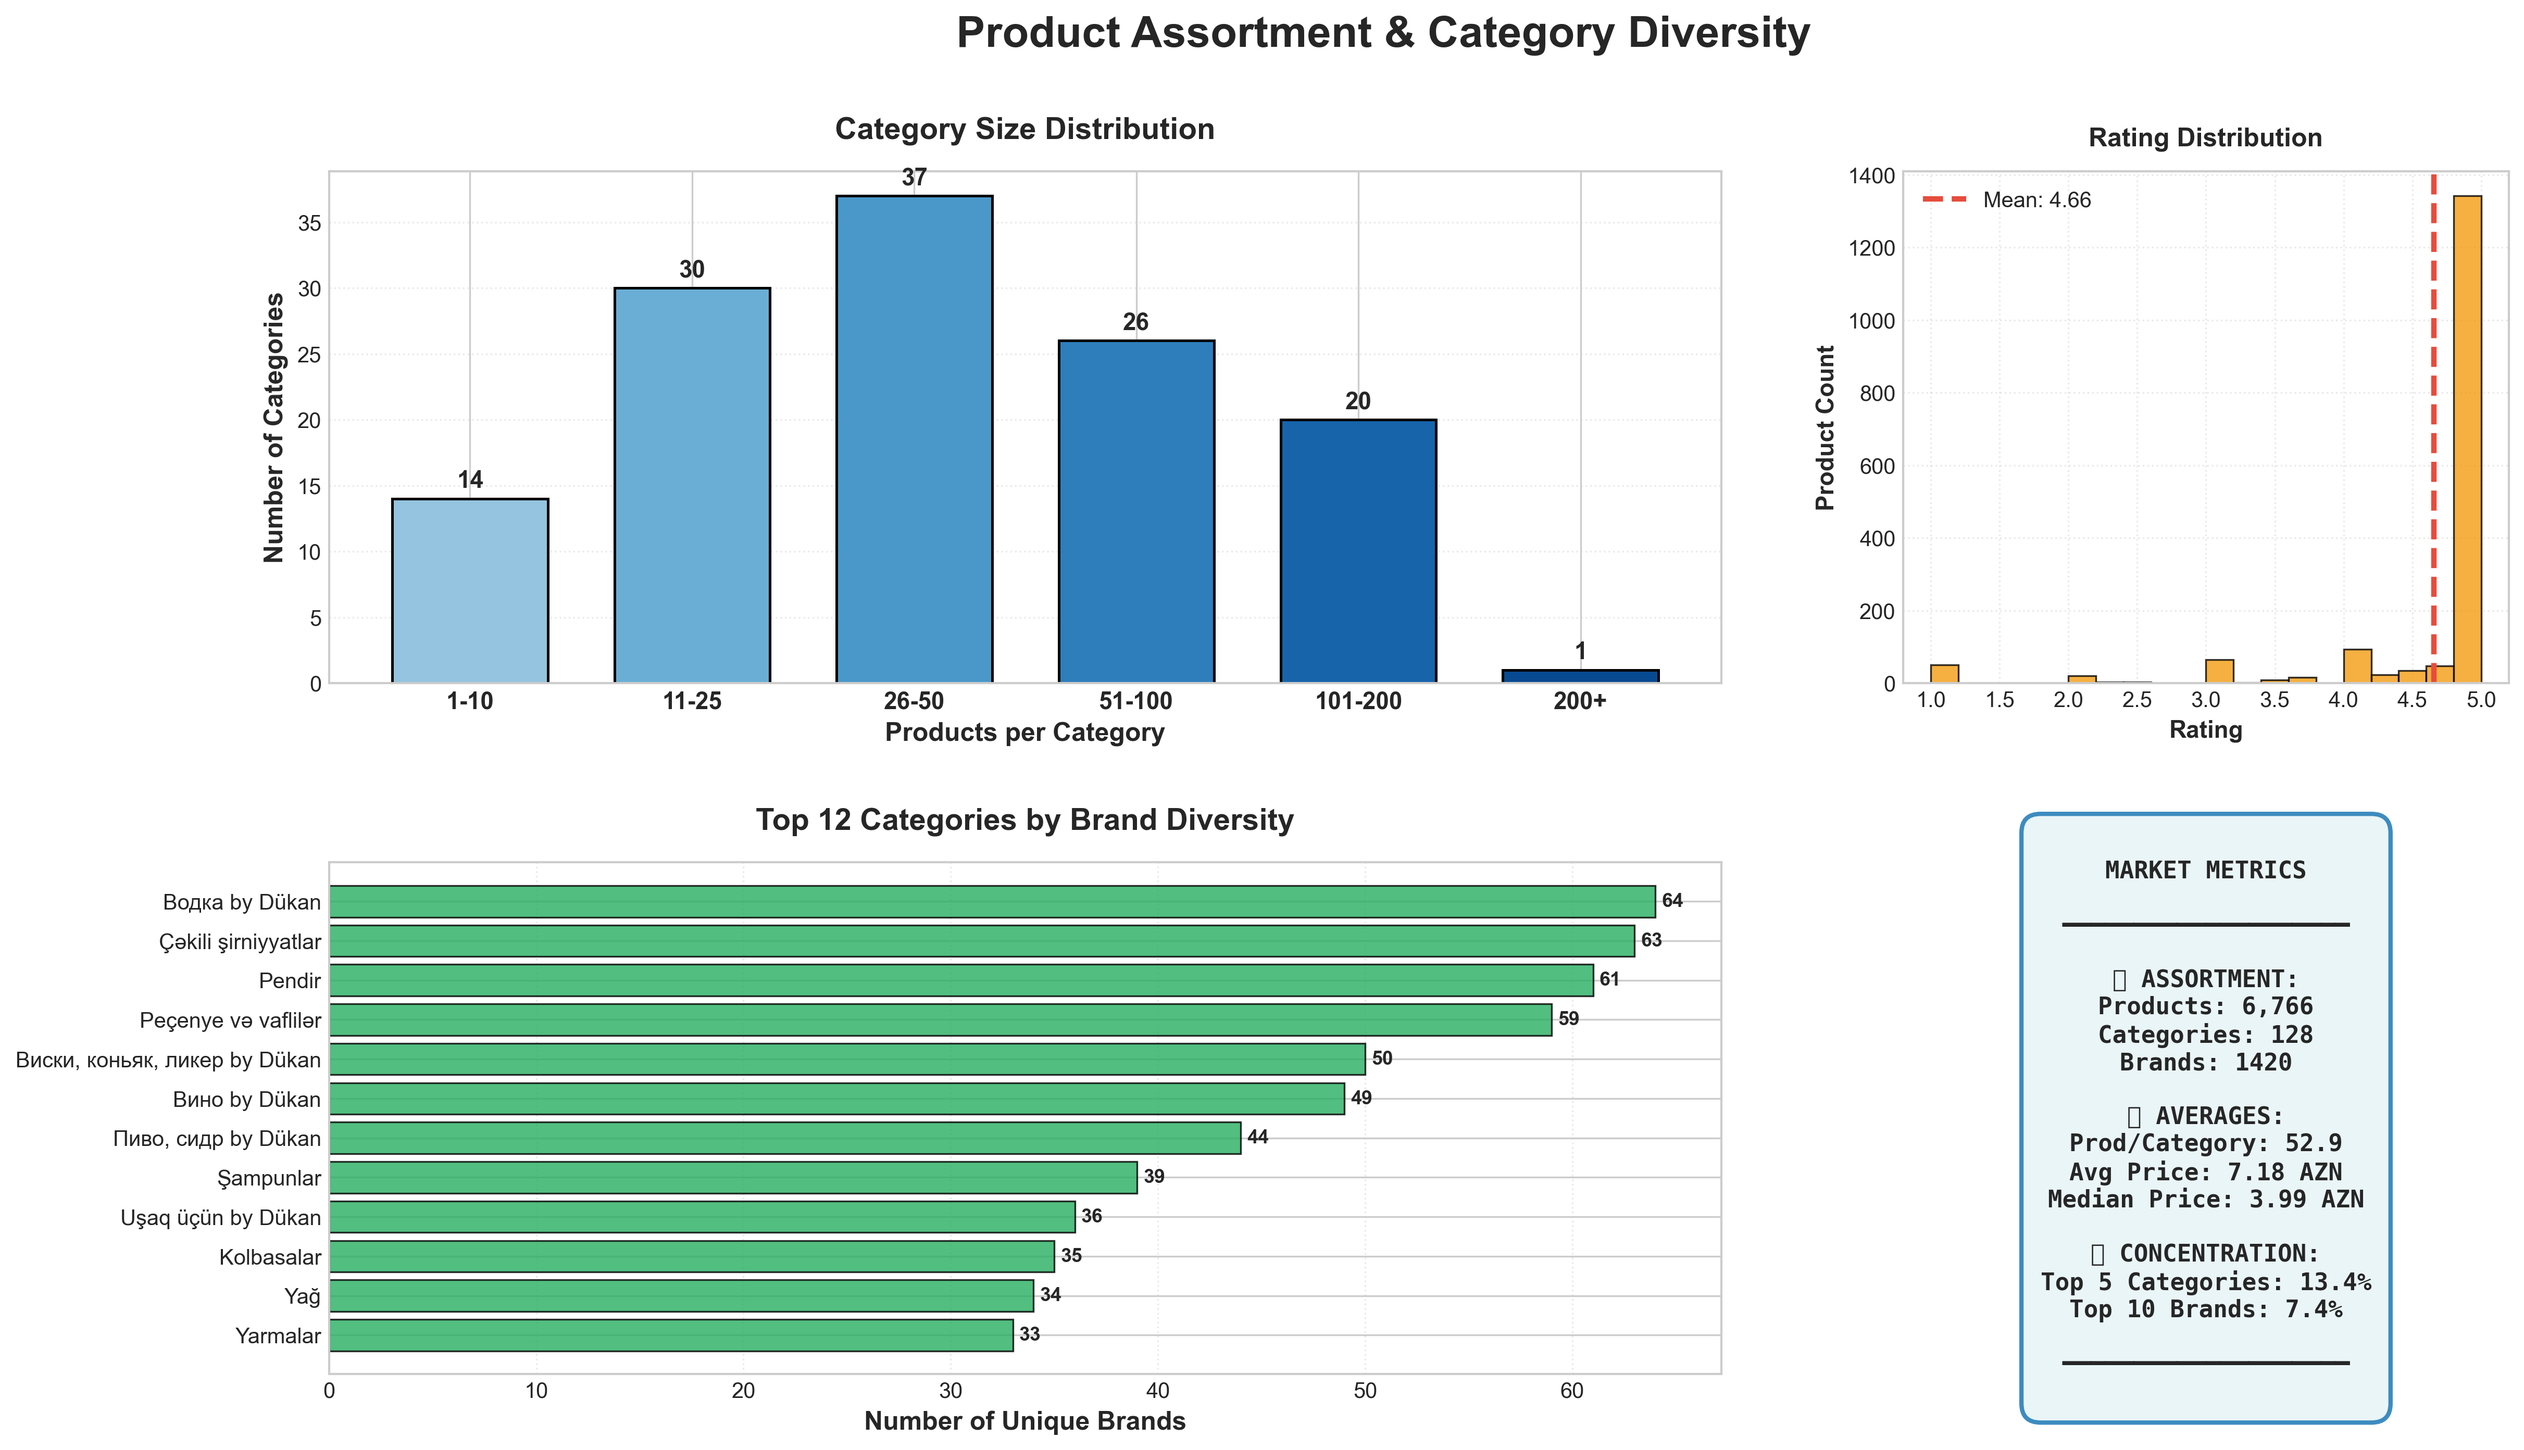
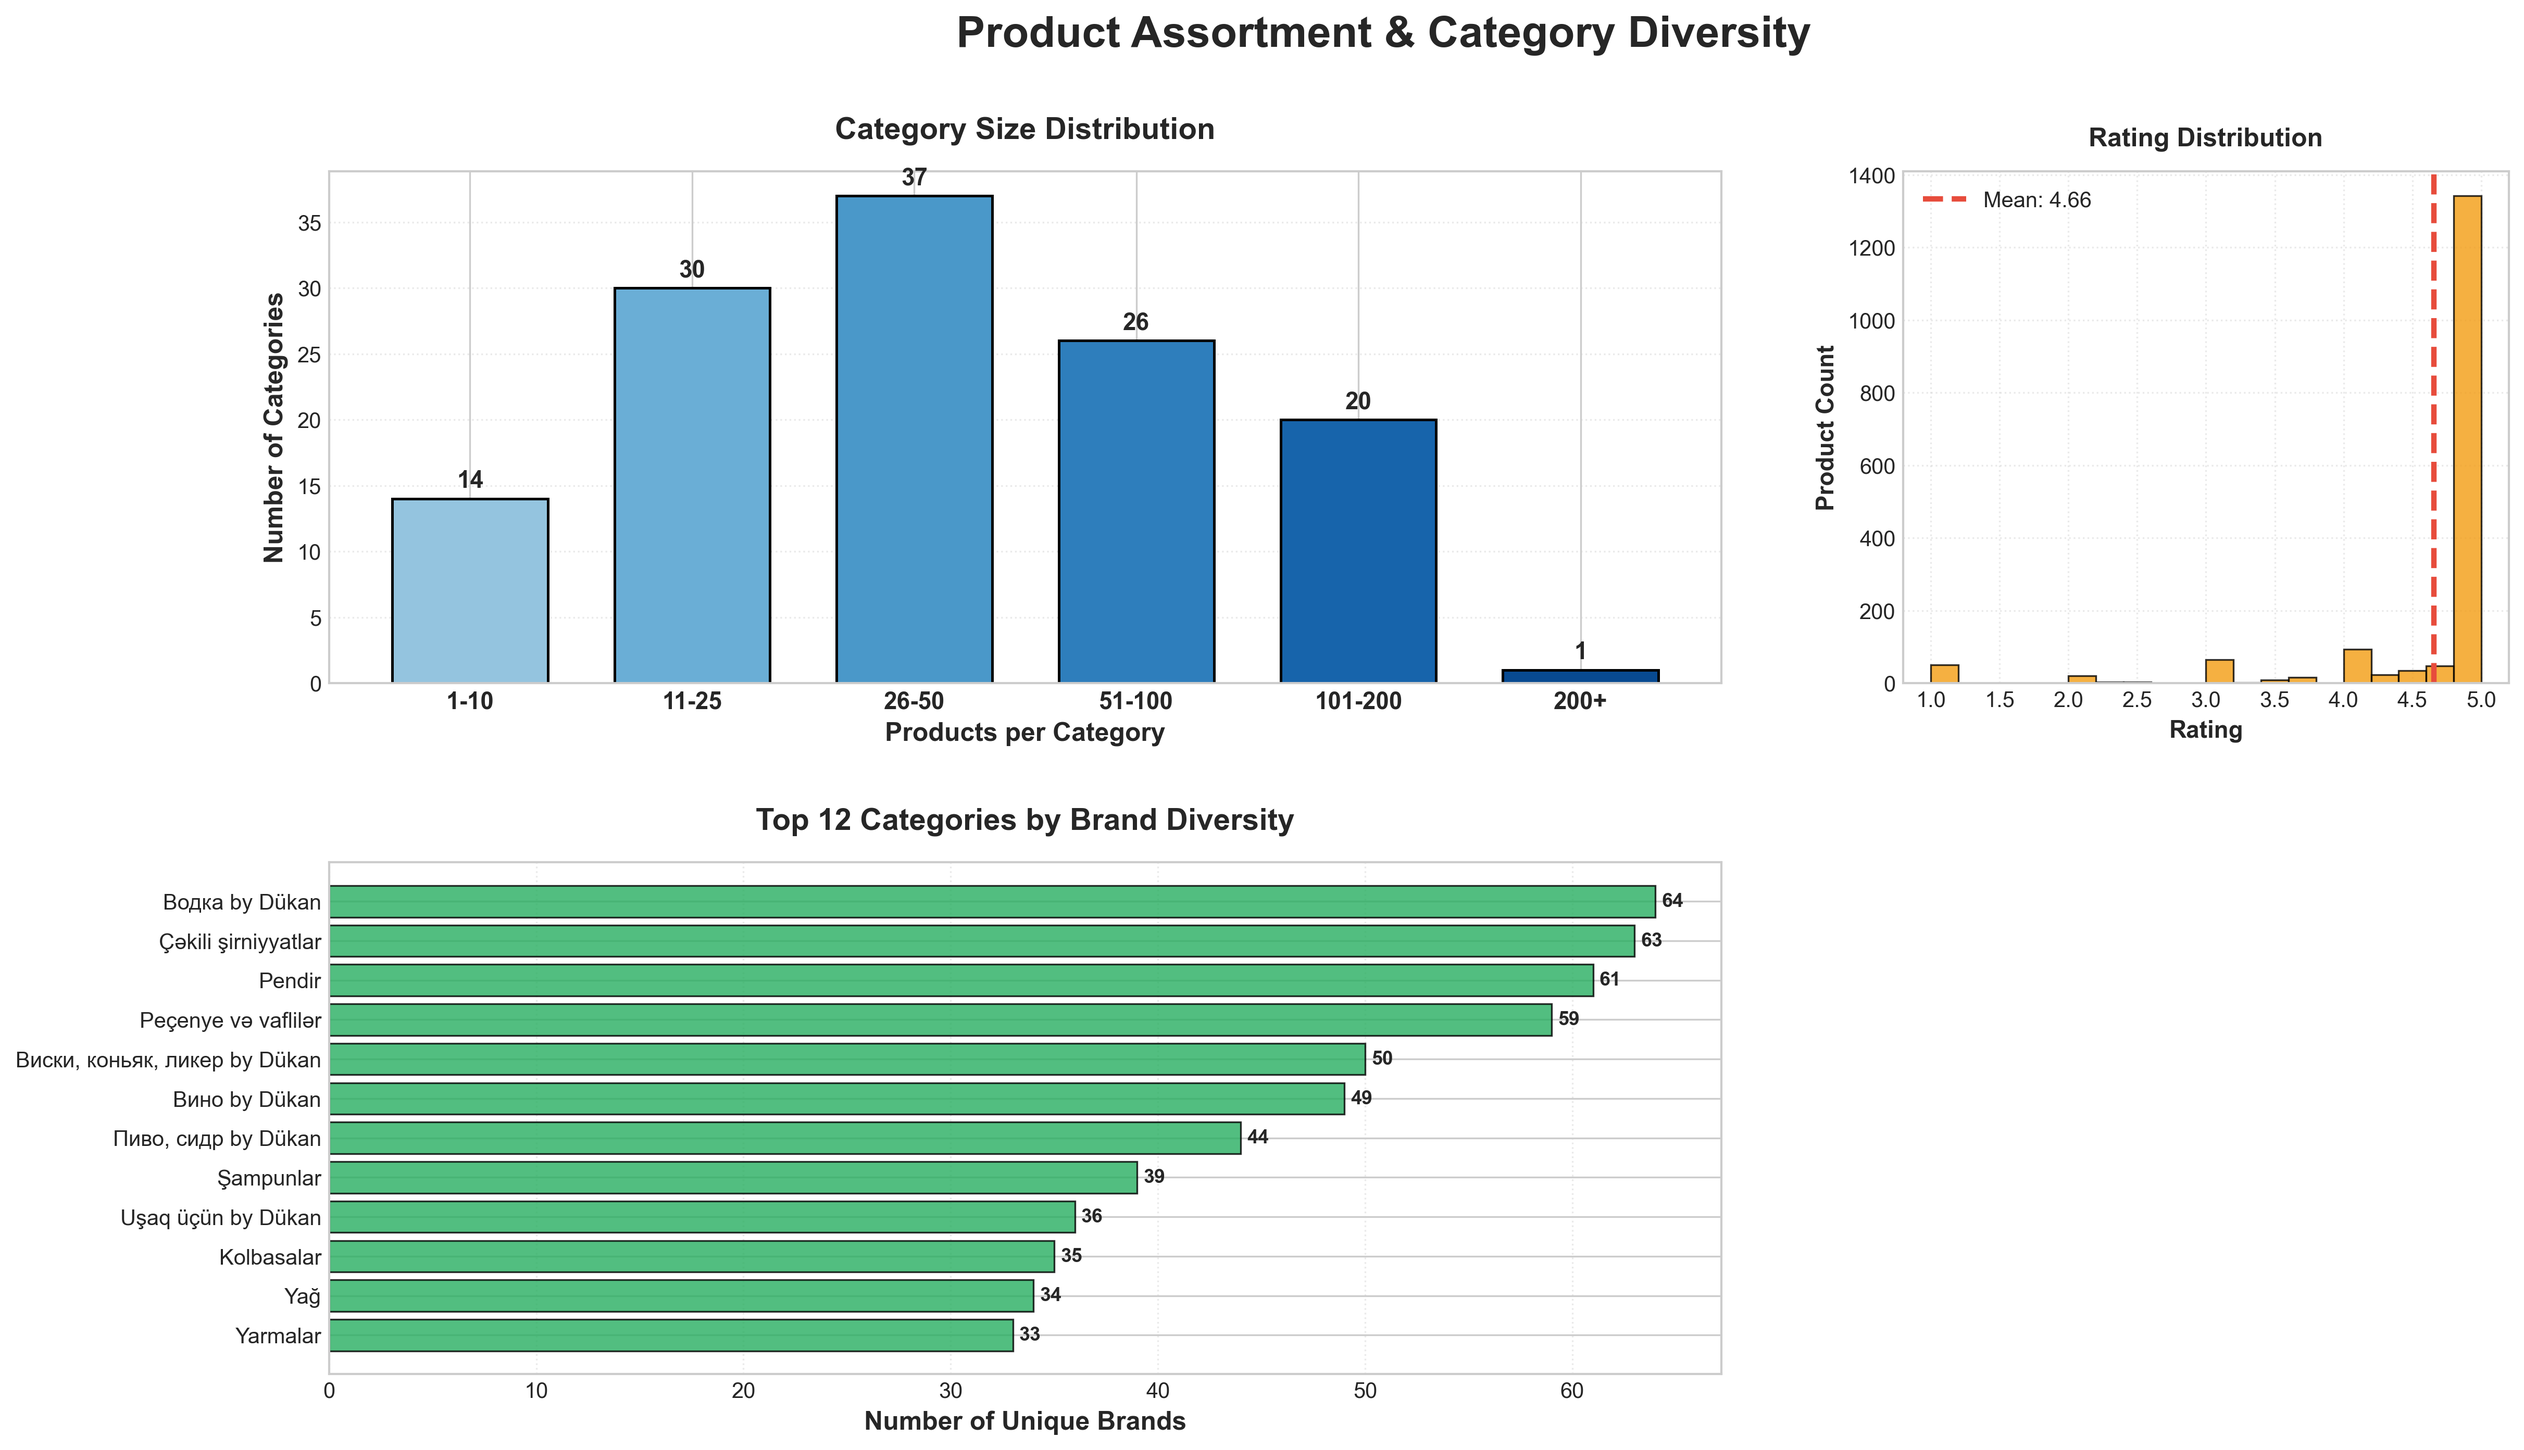
analyse

Changed region(s): [[0.8102, 0.656, 0.9348, 0.9059], [0.8102, 0.9684, 0.9348, 0.9996], [0.8413, 0.5935, 0.9036, 0.6248]]

diff --git a/market_analysis_fixed.py b/market_analysis_fixed.py
@@ -489,8 +489,8 @@ class FoodMarketAnalysis:
         """Market Opportunities"""
         print("→ Chart 6: Market Opportunities...")
 
-        fig = plt.figure(figsize=(18, 12))
-        gs = fig.add_gridspec(3, 2, hspace=0.4, wspace=0.3)
+        fig = plt.figure(figsize=(18, 10))
+        gs = fig.add_gridspec(2, 2, hspace=0.35, wspace=0.3)
         fig.suptitle('Market Opportunities & Strategic Gaps',
                      fontsize=20, fontweight='bold', y=0.98)
 
@@ -584,47 +584,6 @@ class FoodMarketAnalysis:
             ax4.text(width + 0.05, bar.get_y() + bar.get_height()/2.,
                     f'{width:.2f}★', ha='left', va='center',
                     fontweight='bold', fontsize=9)
-
-        # 5. Summary text box
-        ax5 = fig.add_subplot(gs[2, :])
-        ax5.axis('off')
-
-        total_discounted = len(self.df[self.df['has_discount'] == True])
-        avg_discount = self.df[self.df['has_discount'] == True]['discount_percentage'].mean()
-        total_categories = self.df['category_name'].nunique()
-        total_brands = len(self.df[self.df['brand'] != 'N/A']['brand'].unique())
-
-        summary_text = f"""
-KEY MARKET OPPORTUNITIES
-
-━━━━━━━━━━━━━━━━━━━━━━━━━━━━━━━━━━━━━━━━━━━━━━━━━━━━━━━━━━━━━━━━━━━━━━━━━━━━━
-
-📊 MARKET OVERVIEW:
-• Total Products: {len(self.df):,}  |  Categories: {total_categories}  |  Brands: {total_brands}
-• Products with Discounts: {total_discounted:,} ({total_discounted/len(self.df)*100:.1f}%)
-• Average Discount: {avg_discount:.1f}%
-
-🎯 TOP STRATEGIC OPPORTUNITIES:
-
-1. DISCOUNT COMPETITION: {avg_discount:.1f}% avg discount shows aggressive pricing environment
-   → Action: Enter categories with 30%+ discounts for competitive advantage
-
-2. UNDERSERVED NICHES: {len(underserved)} high-quality categories with limited products (<50)
-   → Action: Target low-competition, high-satisfaction segments
-
-3. PRICE OPTIMIZATION: High price variance signals opportunity for mid-market positioning
-   → Action: Fill pricing gaps between budget and premium offerings
-
-4. QUALITY IMPROVEMENT: Several high-volume categories have ratings below 3.5
-   → Action: Compete on quality in categories with dissatisfied customers
-
-━━━━━━━━━━━━━━━━━━━━━━━━━━━━━━━━━━━━━━━━━━━━━━━━━━━━━━━━━━━━━━━━━━━━━━━━━━━━━
-        """
-
-        ax5.text(0.5, 0.5, summary_text, ha='center', va='center',
-                fontsize=10, family='monospace', fontweight='bold',
-                bbox=dict(boxstyle='round,pad=1', facecolor='#f0f0f0',
-                         edgecolor='black', linewidth=2, alpha=0.9))
 
         plt.savefig(self.charts_dir / '06_market_opportunities.png', dpi=300, bbox_inches='tight')
         plt.close()
@@ -796,47 +755,6 @@ KEY MARKET OPPORTUNITIES
             ax3.text(width + 0.3, bar.get_y() + bar.get_height()/2.,
                     f'{int(width)}', ha='left', va='center',
                     fontweight='bold', fontsize=9)
-
-        # 4. Market concentration metrics
-        ax4 = fig.add_subplot(gs[1, 2])
-        ax4.axis('off')
-
-        total_products = len(self.df)
-        total_categories = self.df['category_name'].nunique()
-        total_brands = len(self.df[self.df['brand'] != 'N/A']['brand'].unique())
-        avg_products_per_cat = total_products / total_categories
-        avg_price = self.df['retail_price'].mean()
-        median_price = self.df['retail_price'].median()
-
-        top_5_cat_share = (self.df['category_name'].value_counts().head(5).sum() / total_products * 100)
-        top_10_brand_share = (self.df[self.df['brand'] != 'N/A']['brand'].value_counts().head(10).sum() / len(self.df[self.df['brand'] != 'N/A']) * 100)
-
-        metrics_text = f"""
-MARKET METRICS
-
-━━━━━━━━━━━━━━━━━━━━
-
-📊 ASSORTMENT:
-Products: {total_products:,}
-Categories: {total_categories}
-Brands: {total_brands}
-
-📈 AVERAGES:
-Prod/Category: {avg_products_per_cat:.1f}
-Avg Price: {avg_price:.2f} AZN
-Median Price: {median_price:.2f} AZN
-
-🎯 CONCENTRATION:
-Top 5 Categories: {top_5_cat_share:.1f}%
-Top 10 Brands: {top_10_brand_share:.1f}%
-
-━━━━━━━━━━━━━━━━━━━━
-        """
-
-        ax4.text(0.5, 0.5, metrics_text, ha='center', va='center',
-                fontsize=11, family='monospace', fontweight='bold',
-                bbox=dict(boxstyle='round,pad=0.8', facecolor='#e8f4f8',
-                         edgecolor='#2980b9', linewidth=2, alpha=0.9))
 
         plt.savefig(self.charts_dir / '08_product_assortment.png', dpi=300, bbox_inches='tight')
         plt.close()
